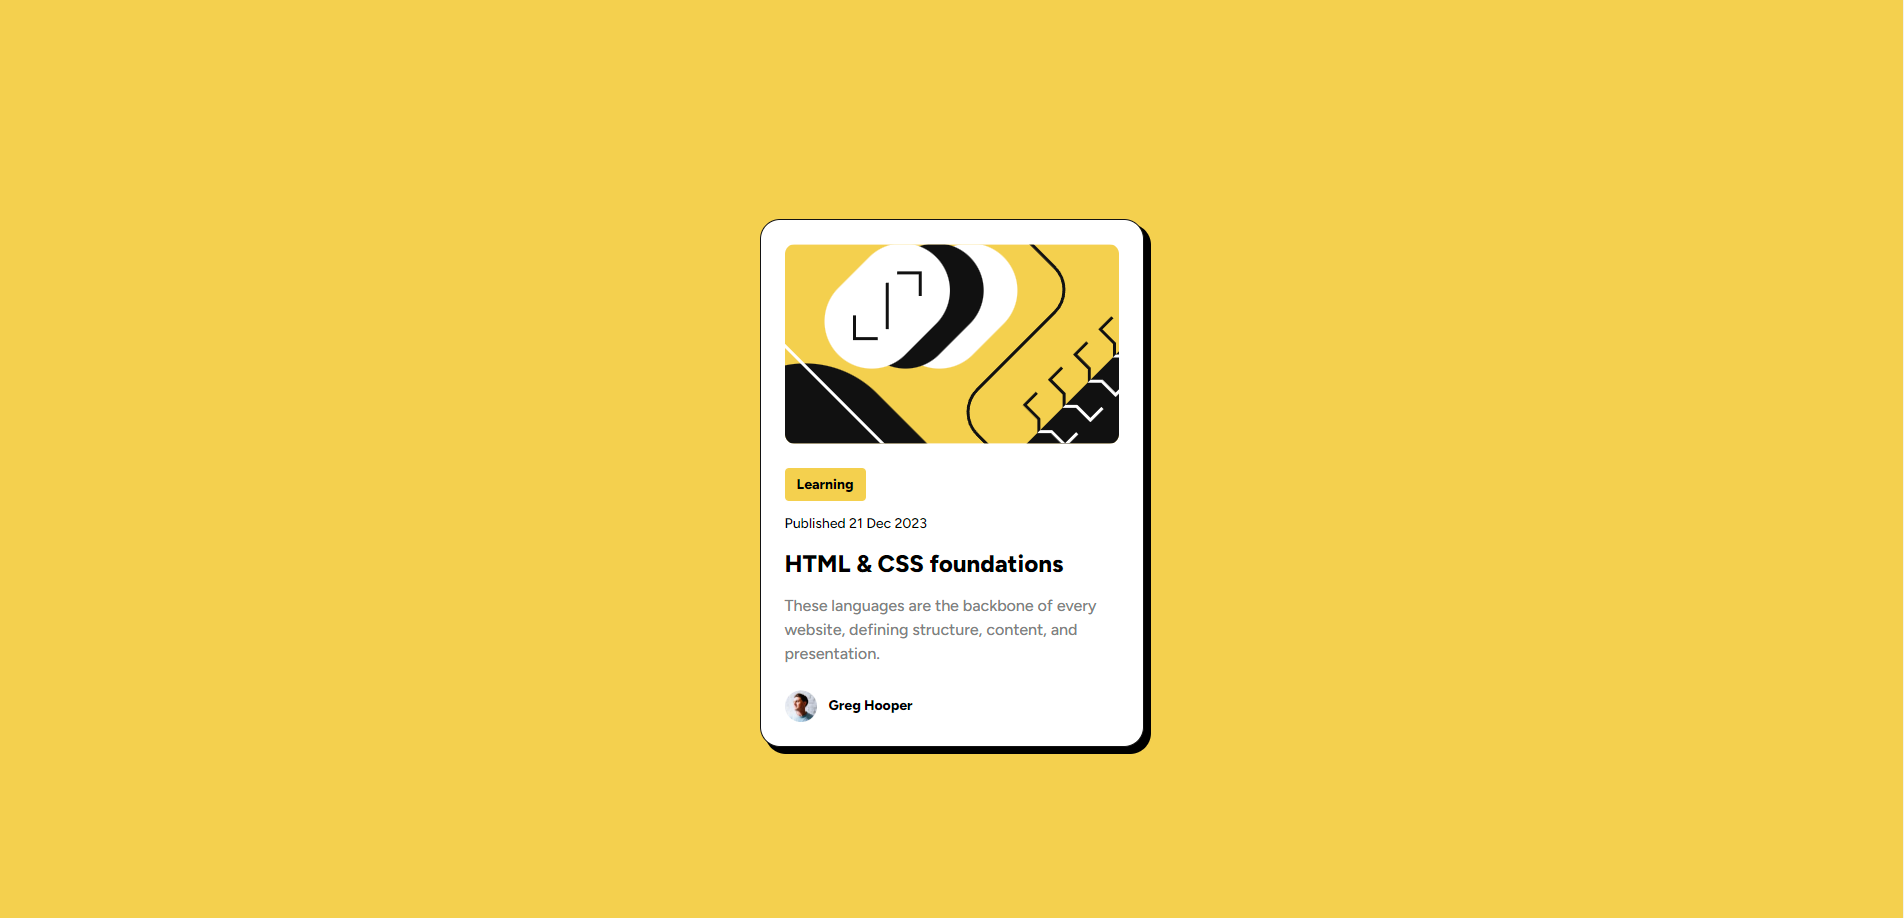
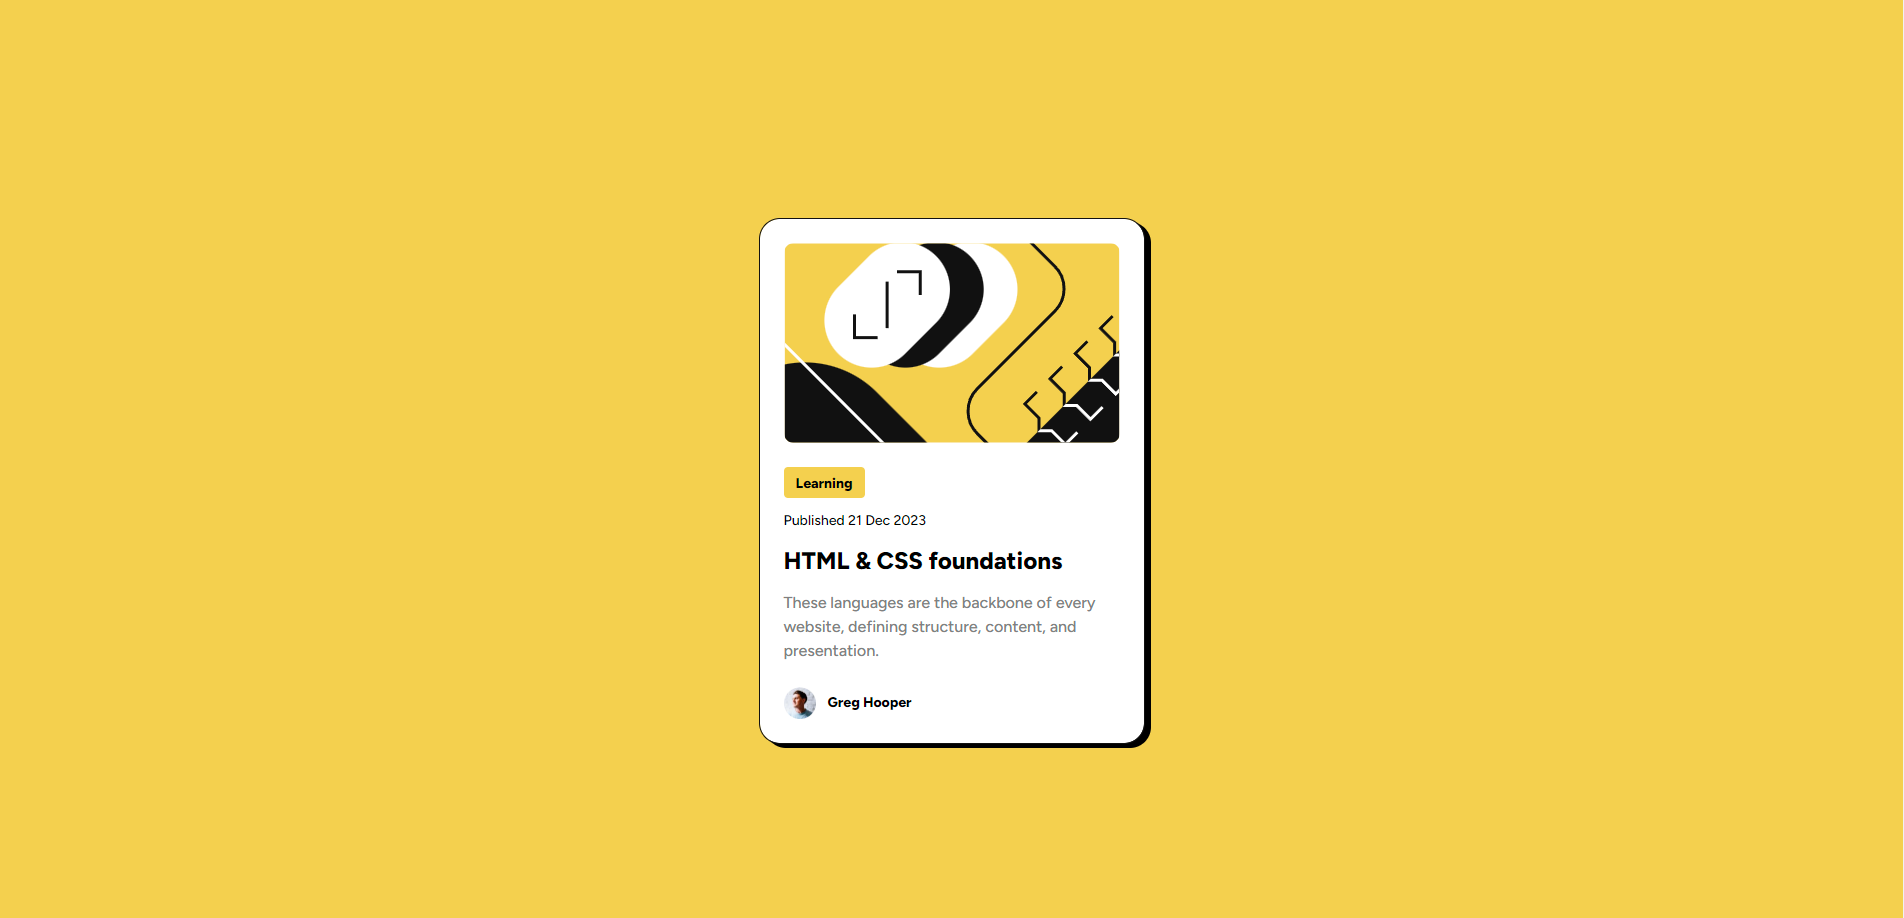
final update

diff --git a/css/style.css b/css/style.css
@@ -42,19 +42,21 @@ body {
 	margin-top: 21.85rem;
 	padding: 2.4rem;
 	background-color: var(--light);
-	border: 1px solid var(--dark);
+	/* border: 1px solid var(--dark); */
+	outline: 1px solid var(--dark);
 	border-radius: 2rem;
-	box-shadow: 6px 6px 0px 1px rgba(0, 0, 0, 1);
+	box-shadow: 6px 4px 0px 1px rgba(0, 0, 0, 1);
 }
 
 .blog-image {
 	border: none;
 	height: 20rem;
+	width: 100%;
 }
 
 .blog-image img {
 	width: 100%;
-	height: 20rem;
+	height: 100%;
 	border-radius: 1rem;
 }
 
@@ -74,7 +76,7 @@ body {
 	background-color: var(--primary);
 	padding: 0.6rem 1.2rem;
 	border-radius: 0.4rem;
-	height: 3.3rem;
+	height: 3.1rem;
 }
 
 .content__publish-date {
